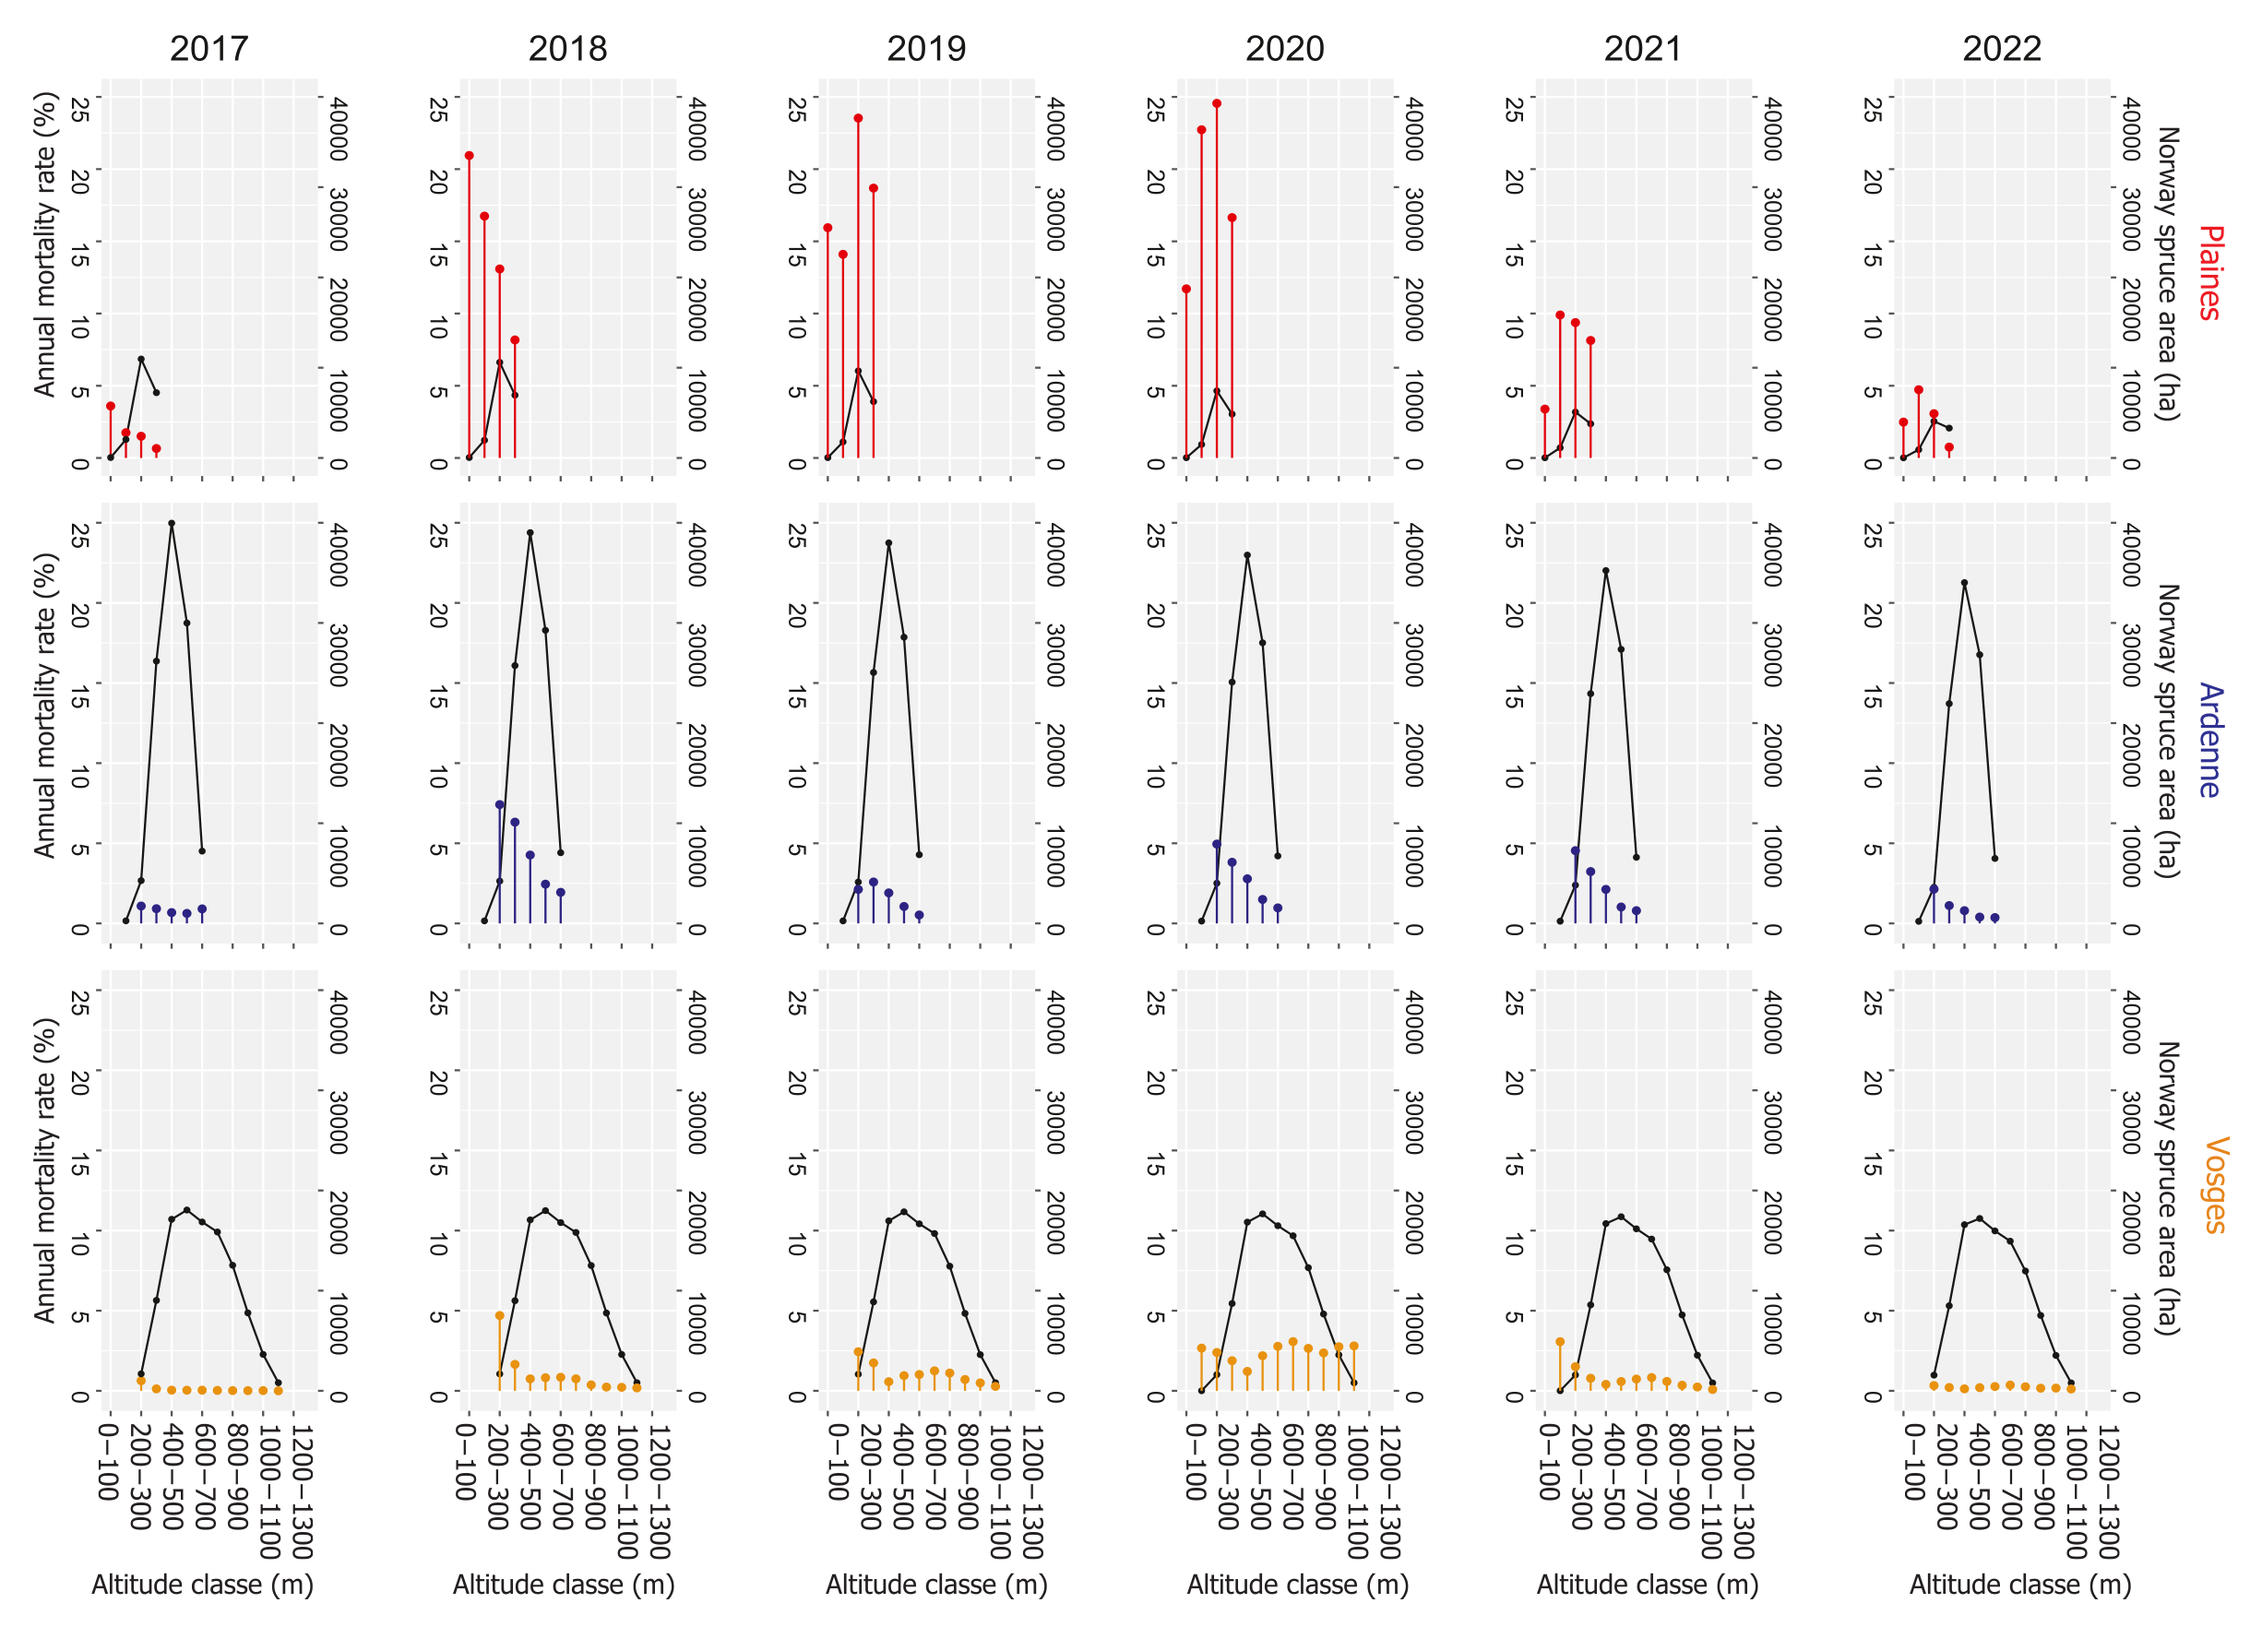
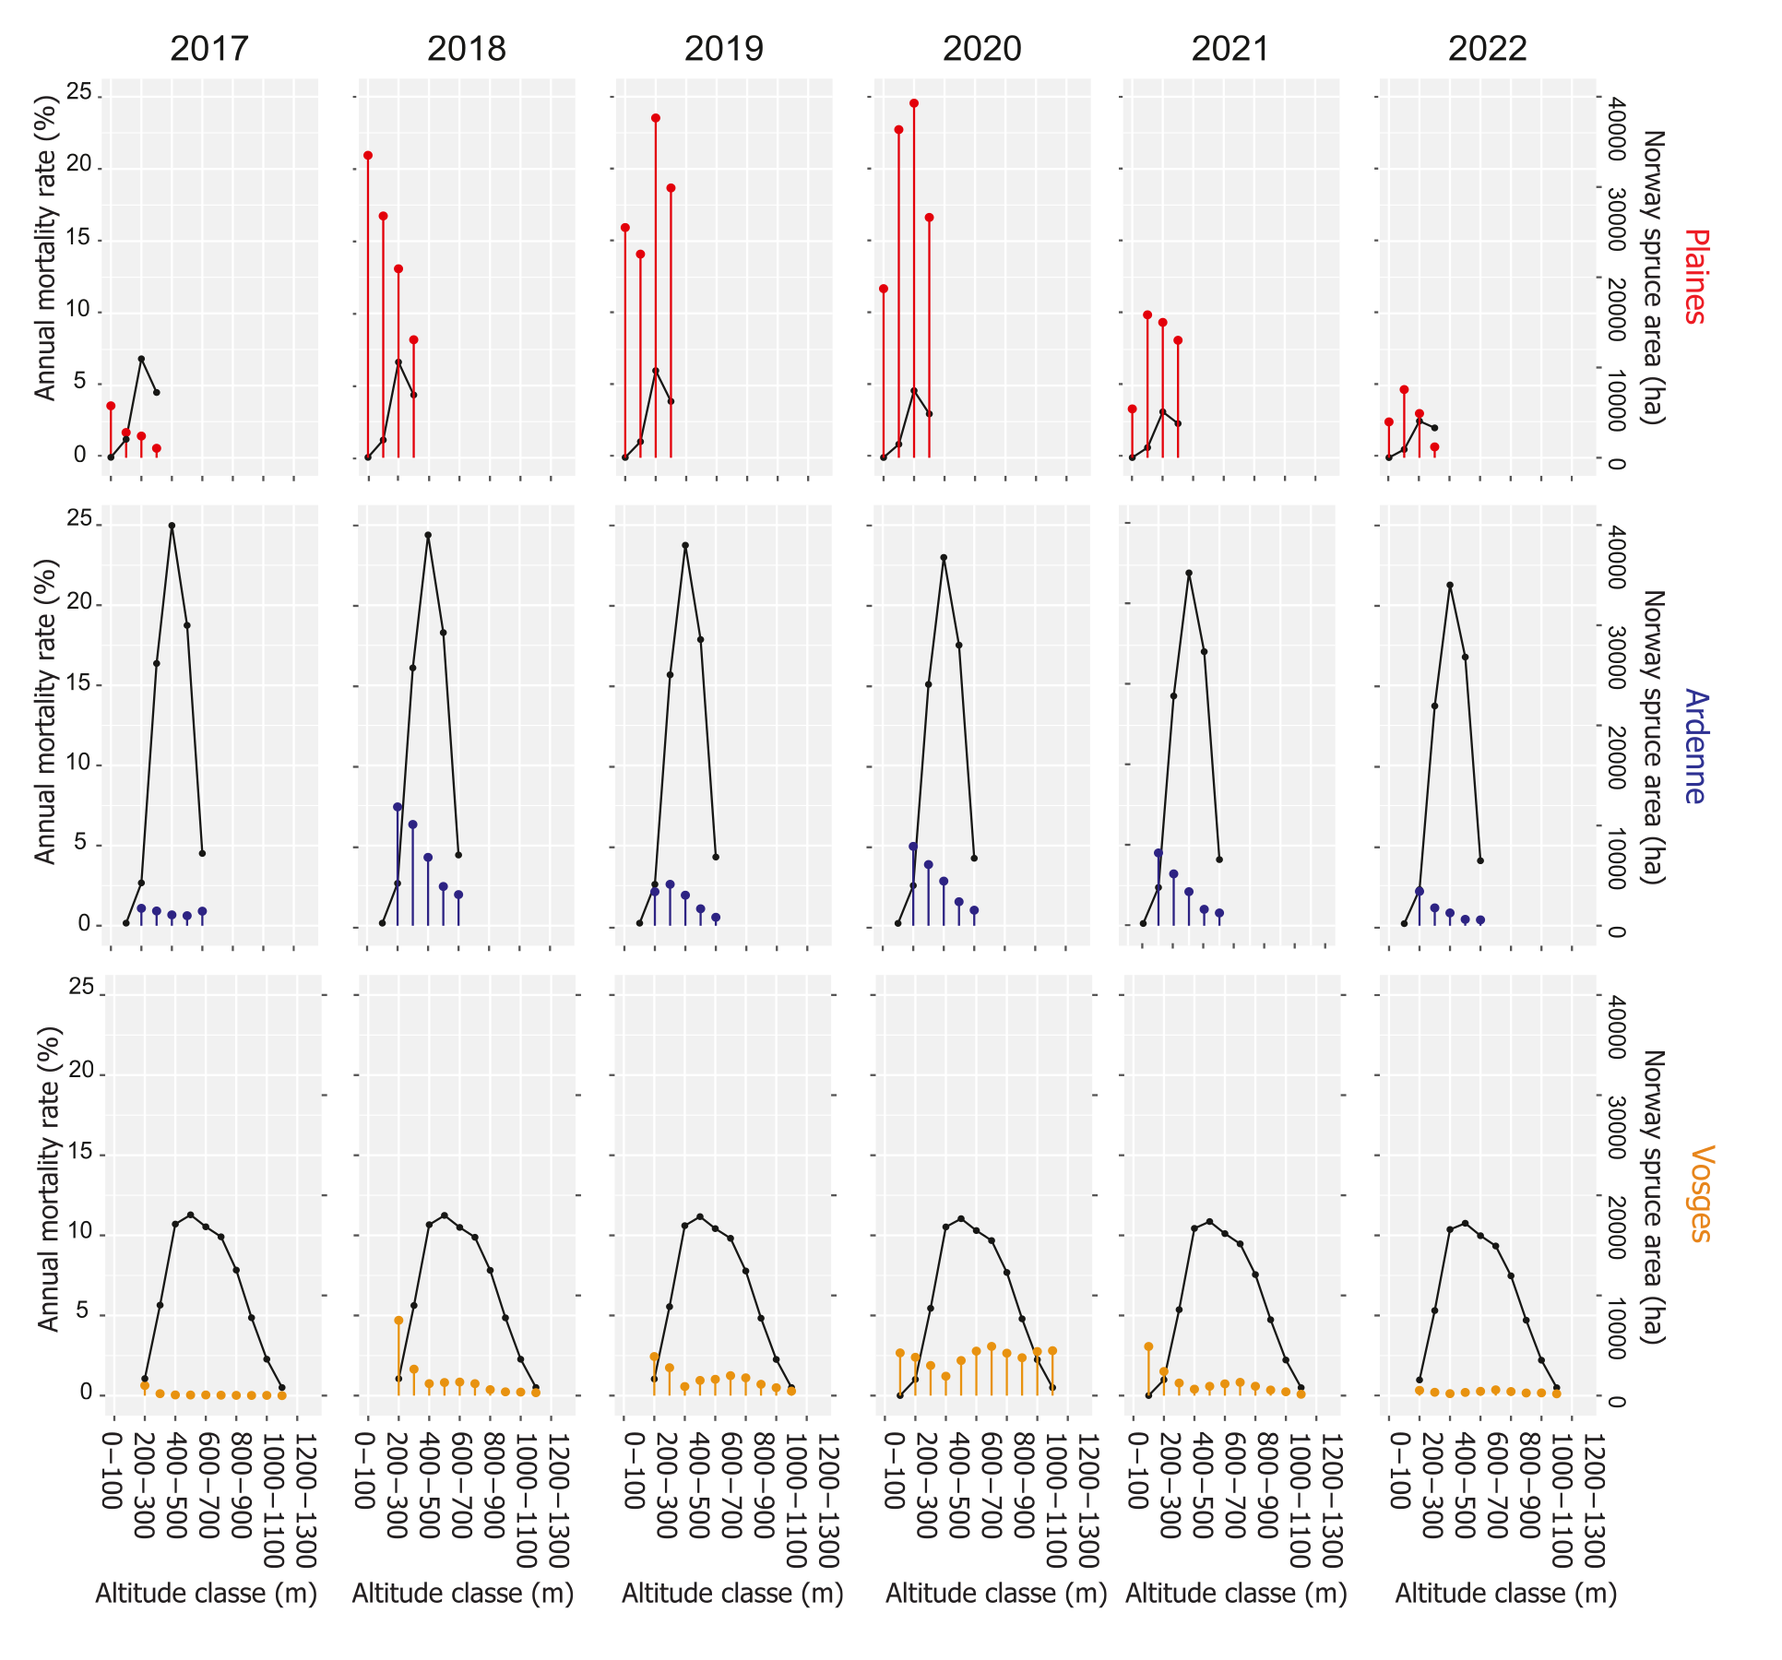
modif

diff --git a/articleSco/2022-ScolytesArdenneVosges.tex b/articleSco/2022-ScolytesArdenneVosges.tex
@@ -301,10 +301,12 @@ During the study period, only one NCDD peak occurred in the vosges in 2020.
 	\begin{tabular}{|c|c|c|c|}
 		\hline
 		Region  & \begin{tabular}[c]{@{}c@{}}Total spruce dieback\\ area during the crisis (ha)\end{tabular} & \begin{tabular}[c]{@{}c@{}}Total spruce area \\ before crisis (ha)\end{tabular} & \begin{tabular}[c]{@{}c@{}}Percentage of area\\  with dieback\end{tabular} \\ \hline
+
 		Plains  & 11,298                                                                                     & 21,720                                                                          & 52.0                                                                       \\ \hline
 		Ardenne & 13,397                                                                                     & 107,926                                                                         & 12.2                                                                       \\ \hline
 		Vosges  & 4,305    &\surfEPVosges                                                                          & 5.7                                                                        \\ \hline
 		Total   & 29,000                                                                                     & 204,763                                                                         & 14.2                                                                       \\ \hline
+
 	\end{tabular}
 \end{table}
 %\fi
@@ -330,7 +332,7 @@ However, Vosgian spruces are rare below 400 m (less than 6,500 ha).
 \begin{figure}[htbp] 
 \centering
 	\includegraphics[width=\textwidth]{synthese_color_11_2022.png}
-     \caption{Variation of the dieback rate from 2017 to 2022 according to the altitude which has been subdivided into 14 altitude classes of 100 m amplitude for the three regions: Plains (red), Ardenne (blue) and Vosges (orange. The area of spruce per altitude class is represented in black.  
+     \caption{Variation of the dieback rate from 2017 to 2022 according to the altitude which has been subdivided into 14 altitude classes of 100 m amplitude for the three regions: Plains (red), Ardenne (blue) and Vosges (orange. The spruce area per altitude class is represented in black.  
 }
 	\label{alti_sco}
 \end{figure}
